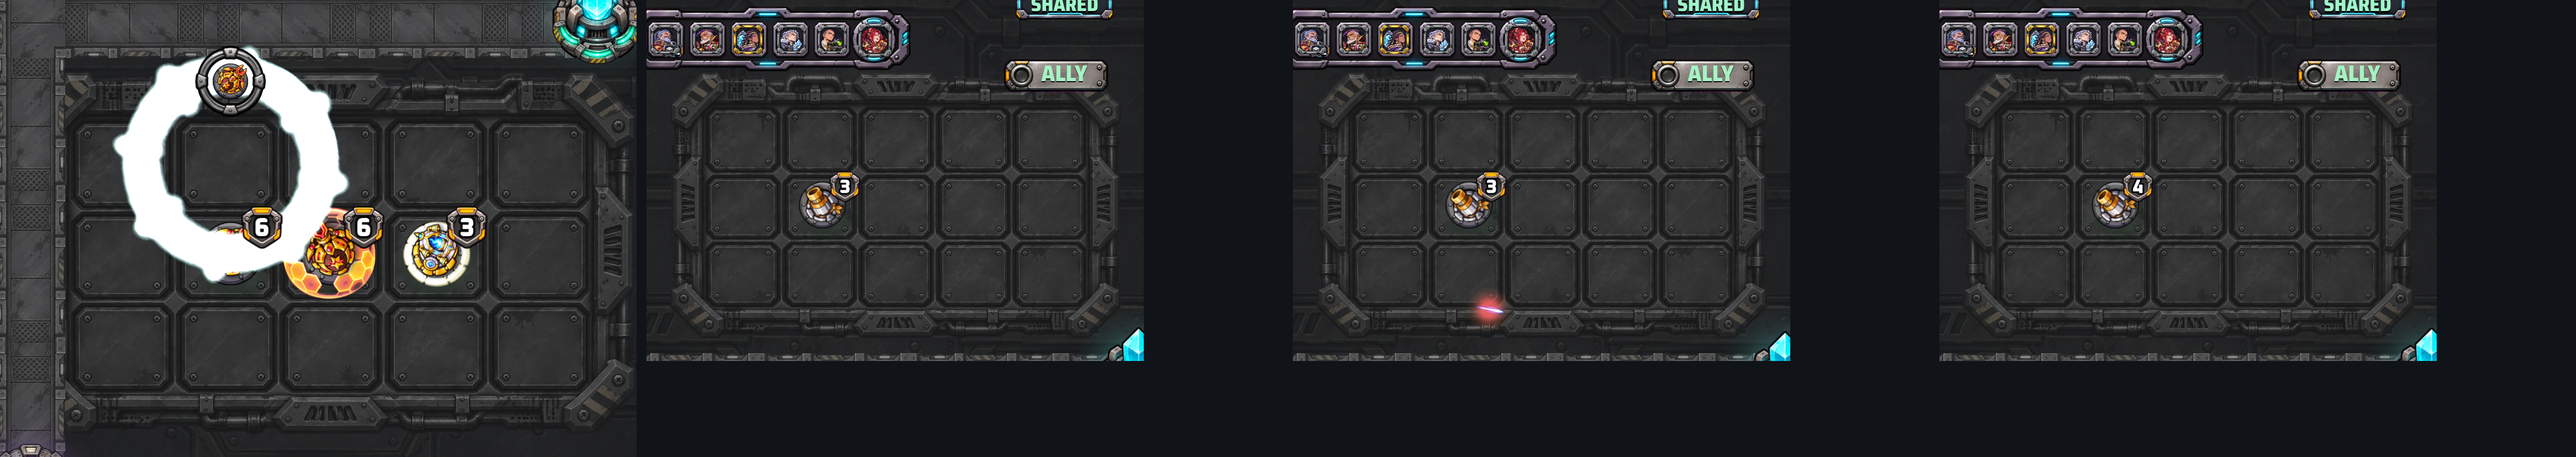
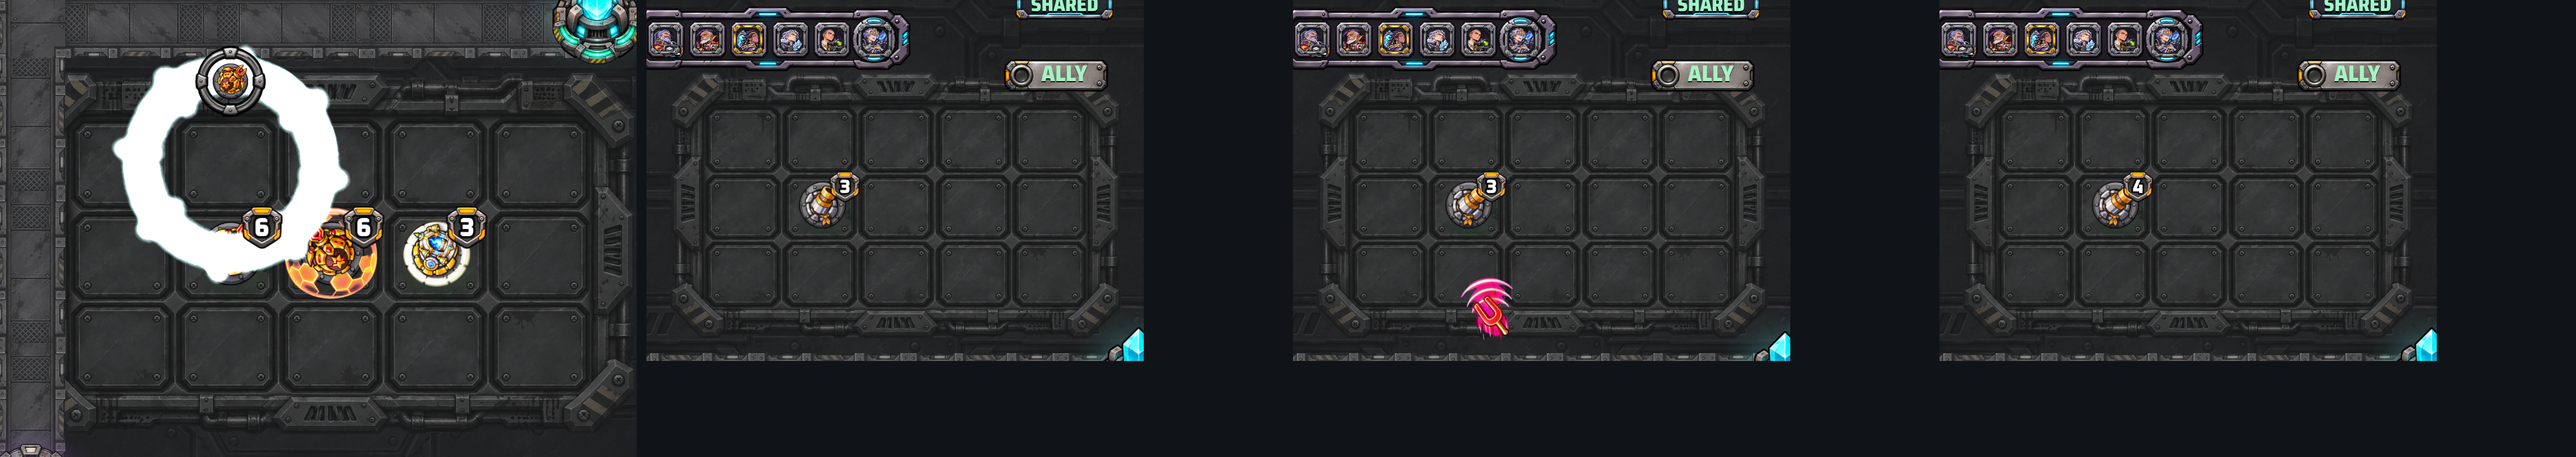
thap: lắp dải hiệu ứng ChatGPT 4 ụ vàng đợt 2 (fx_<id>_sk.png 16 khung: xung máu, âm thoa + sao vỡ, lửa thánh + vòm, nổ lăng kính); ảnh kiểm dot2
Claude-Session: https://claude.ai/code/session_016VkJ26f22ubevy4EnREsEV

diff --git a/thap/js/skills7.js b/thap/js/skills7.js
@@ -11,7 +11,7 @@ const SK7 = {
   lv(B, id) { const r = G.rosterMap && G.rosterMap[id]; return ((r && typeof THE !== 'undefined' && THE.lvDau[r.bac]) || 9) + ((B && B.capThe && B.capThe[id]) || 0); },
   // RNG tất định: cùng (bàn chủ hành động, ô, số lần) → cùng kết quả trên cả 2 máy online
   rng(B, o, n, k) { const s = ((typeof ONS !== 'undefined' && ONS.on ? ONS.seed : 7) | 0) * 1009 + (n | 0) * 7919 + (o | 0) * 131 + (k | 0) * 17; return rngHat(s); },
-  FX: new Set([]), // id đã có dải hiệu ứng ChatGPT assets/fx_<id>_sk.png (16 khung, tools/thap-lap-vangmoi1.py <id>) — vẽ qua VM1.fx (vangmoi1.js)
+  FX: new Set(['mauhut', 'nguyenrua', 'thanhdia', 'bienmau']), // id đã có dải hiệu ứng ChatGPT assets/fx_<id>_sk.png (16 khung)
   anh(id, cot, du) { const t = 'fx_' + id + '_' + cot; return (typeof FXU !== 'undefined' && FXU.co && FXU.co(t)) ? t : du; },
 };
 // % kỹ năng theo cấp thẻ — bảng chung KY_NANG_CAP (data.js; trang ụ tự hiện 'Vamp +6% → +6.5%', online theo cấp trong chuỗi bộ bài)
@@ -24,9 +24,22 @@ Object.assign(KY_NANG_CAP, {
 const kn7 = (T) => (knThe(G.ban[T.ban], T.id) || KY_NANG_CAP[T.id].base) / 100;
 
 
-// hiệu ứng kỹ năng: dải 16 khung ChatGPT của ụ (nếu đã lắp) — chưa có → ảnh nổ chung laser_trung
+// hiệu ứng kỹ năng: dải 16 khung ChatGPT assets/fx_<id>_sk.png (lưới 4×4 CAN-VE-2 → 1 hàng 320 px/khung; code chỉ chọn khung/phóng/xoay/mờ)
+//  khung: mauhut 0–15 xung máu · nguyenrua 0–5 âm thoa bay, 6–15 sao vỡ · thanhdia 0–15 lửa thánh + vòm · bienmau 0–3/4–7/8–11 đạn đỏ/vàng/xanh, 12–15 nổ lăng kính
+const FX7_KHUNG = { mauhut: [0, 15], nguyenrua: [6, 15], thanhdia: [0, 15], bienmau: [12, 15] };
+function fx7Ve(ctx, R, id, f, x, y, w, al, goc) {
+  if (!SK7.FX.has(id)) return false;
+  const im = R.img('fx_' + id + '_sk'); if (!im) return false;
+  const fw = im.height, i = clamp(Math.floor(f), 0, 15);
+  ctx.save(); ctx.globalAlpha = al; ctx.translate(x, y); if (goc) ctx.rotate(goc);
+  ctx.drawImage(im, i * fw, 0, fw, fw, -w / 2, -w / 2, w, w); ctx.restore(); ctx.globalAlpha = 1;
+  return true;
+}
+HU.fx7 = { // 1 lần phát dải khung (f0 → f1) tại (x, y)
+  ve(ctx, o, R) { const u = o.t / o.song, [f0, f1] = o.k; ctx.globalCompositeOperation = 'lighter'; fx7Ve(ctx, R, o.id, f0 + u * (f1 - f0 + 1), o.x, o.y, o.w, 1 - Math.max(0, u - 0.85) / 0.15); ctx.globalCompositeOperation = 'source-over'; },
+};
 function fx7(id, x, y, w, song) {
-  if (SK7.FX.has(id) && typeof VM1 !== 'undefined' && typeof vm1Fx === 'function') { VM1.FXCO.add(id); vm1Fx(id, x, y, w * 1.4, Math.max(0.6, song * 1.6), '#ffffff'); return; }
+  if (SK7.FX.has(id)) { G.hu.push({ k: 'fx7', t: 0, song: Math.max(0.55, song * 1.6), id, x, y, w: w * 1.3, k: FX7_KHUNG[id] }); return; }
   FX.no('laser_trung', x, y, w, song);
 }
 
@@ -131,8 +144,8 @@ HU.hexBay = { // âm thoa đỏ bay tới đích 1.5 s rồi phán (kiểm khiê
     if (!dich) return;
     const x = o.x0 + (dich.x - o.x0) * u, y = o.y0 + (dich.y - o.y0) * u - Math.sin(u * Math.PI) * 40;
     ctx.globalCompositeOperation = 'lighter'; ctx.globalAlpha = 0.9;
-    const a = R.img(SK7.anh('nguyenrua', 'dan', 'dan_tia')); if (a) { ctx.save(); ctx.translate(x, y); ctx.rotate(R.t * 8); ctx.drawImage(a, -11, -11, 22, 22); ctx.restore(); }
-    R.anhGiua(ctx, R.cham1('#ff3a3a'), x, y, 30);
+    const g = Math.atan2(dich.y - o.y0, dich.x - o.x0);
+    if (!fx7Ve(ctx, R, 'nguyenrua', Math.min(5, u * 8), x, y, 46, 0.95, g)) { const a = R.img(SK7.anh('nguyenrua', 'dan', 'dan_tia')); if (a) { ctx.save(); ctx.translate(x, y); ctx.rotate(R.t * 8); ctx.drawImage(a, -11, -11, 22, 22); ctx.restore(); } R.anhGiua(ctx, R.cham1('#ff3a3a'), x, y, 30); }
     ctx.globalCompositeOperation = 'source-over'; ctx.globalAlpha = 1;
   },
 };
@@ -232,6 +245,8 @@ aiBan = function (B, dt) {
   }
   return _aiBan7(B, dt);
 };
+const _batDau7 = batDau; // nạp sẵn dải hiệu ứng của ụ có trong các bộ bài trận này
+batDau = function () { const r = _batDau7.apply(this, arguments); try { for (const B of G.ban) for (const id of B.deck) if (SK7.FX.has(id)) REN.img('fx_' + id + '_sk'); } catch (e) { } return r; };
 const _deckNN7 = deckNgauNhien;
 deckNgauNhien = function (tru) { return _deckNN7([...(tru || []), ...SK7.CHUA_ANH]); };
 if (typeof DC !== 'undefined' && DC.ngauNhien) { /* dkcham.js nạp sau — xem cuối file */ }
